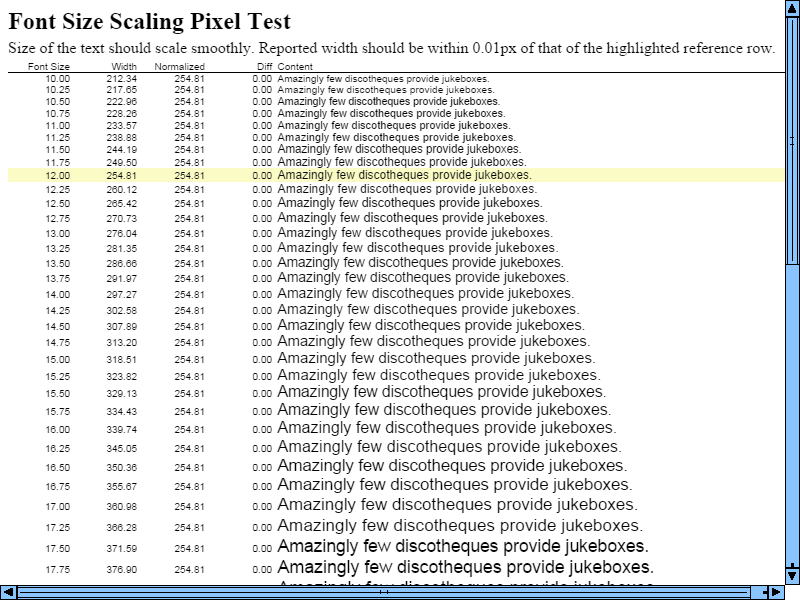
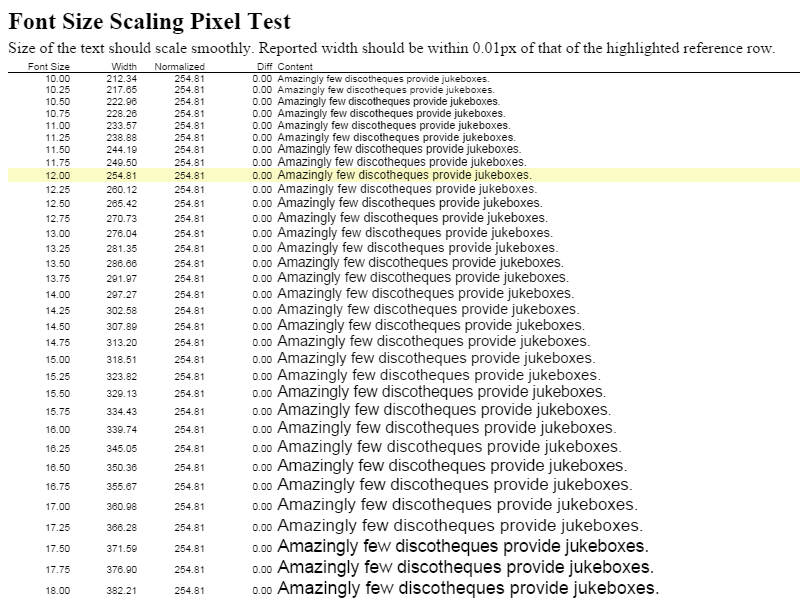
Hide scrollbars in fast/text/sub-pixel/text-scaling-pixel.html
Hide scrollbars in the fast/text/sub-pixel/text-scaling-pixel.html test
to minimize platform differences.

R=dglazkov@chromium.org

Review URL: https://codereview.chromium.org/255653002

git-svn-id: svn://svn.chromium.org/blink/trunk@172562 bbb929c8-8fbe-4397-9dbb-9b2b20218538

Changed region(s): [[0.0, 0.0, 1.0, 1.0]]

diff --git a/LayoutTests/fast/text/sub-pixel/text-scaling-pixel.html b/LayoutTests/fast/text/sub-pixel/text-scaling-pixel.html
@@ -4,6 +4,9 @@
         <meta http-equiv="Content-Type" content="text/html; charset=utf-8">
         <link rel="stylesheet" type="text/css" href="resources/text-scaling.css">
         <script src="resources/text-scaling.js"></script>
+        <style>
+            body { overflow: hidden; }
+        </style>
     </head>
     <body style="overflow: hidden;">
         <section>
